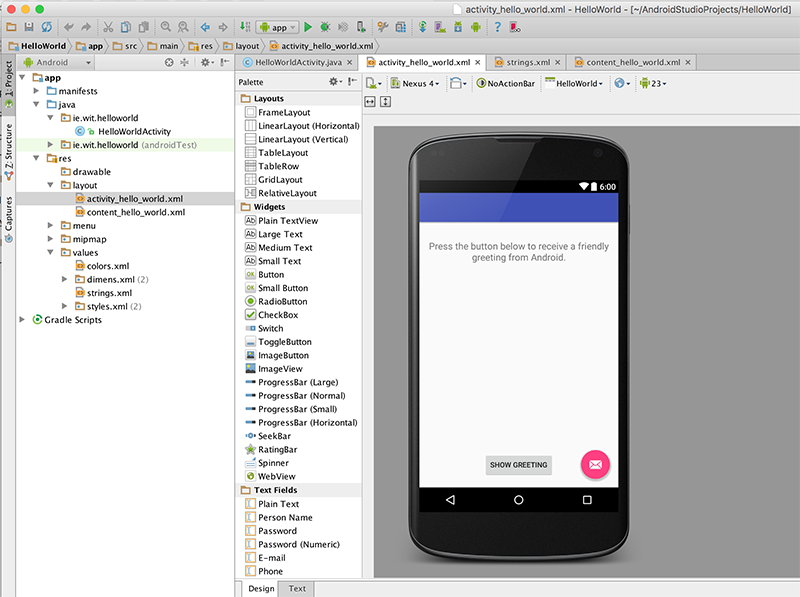
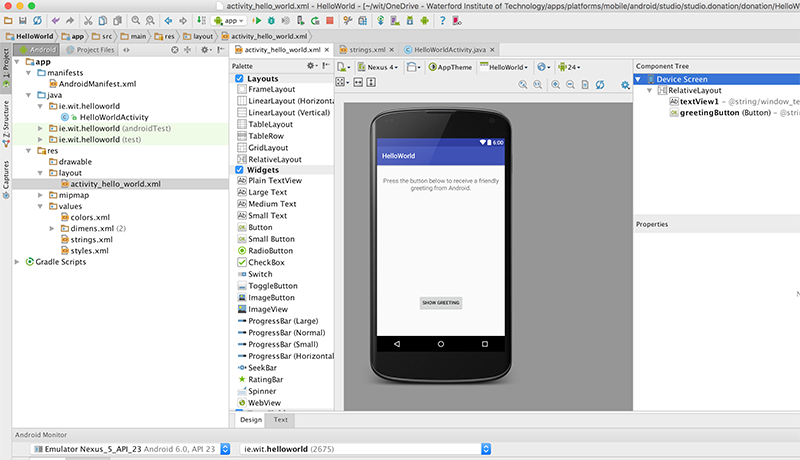
Updates session1/lab/md/step03.md
Auto commit by GitBook Editor

diff --git a/session1/lab/md/step03.md b/session1/lab/md/step03.md
@@ -8,7 +8,7 @@ If you've deleted your HelloWorld Project, launch Android Studio (if it's not al
 
 If you haven't deleted the project, you can just continue on.
 
-Name your package 'ie.wit' (or accept the default again). Accept all the defaults, and it's recommended you select <b>Android 5.0</b> as the launch target platform (but any target will suffice for this particular lab). It's also probably a good idea to run the App at this stage, so you can set up your Virtual Device (if you haven't done so already).
+Name your package 'ie.wit' (like you did before). Choose an Empty Activity again and rename as before. It's recommended you select <b>Android 5.0</b> as the launch target platform (but any target will suffice for this particular lab). It's also probably a good idea to run the App at this stage, so you can set up your Virtual Device (if you haven't done so already).
 
 Edit your "strings.xml" file (in your res folder) and add the following "resources" - be careful if you have created an app which contains a 'menu' folder, this also includes associated resources, so don't overwrite those resources, just add our ones at the end.
 
@@ -18,11 +18,10 @@ Edit your "strings.xml" file (in your res folder) and add the following "resourc
     <string name="greeting_text">Hello from Android!</string>
 ~~~
 
-Your completed strings.xml should look like this
+Your completed strings.xml (without menus) should look like this
 ~~~xml
 <resources>
     <string name="app_name">HelloWorld</string>
-    <string name="action_settings">Settings</string>
     <string name="window_text">Press the button below to receive a friendly greeting from Android.</string>
     <string name="button_label">Show Greeting</string>
     <string name="greeting_text">Hello from Android!</string>
@@ -34,7 +33,7 @@ If you choose "open editor you can see the graphical representation of the Strin
 ![](../img/lab02.png)
 
 
-Now, edit your <b>"content_hello_world.xml"</b> <u><i>in your <i>layout</i> folder</i></u> and replace your <b>TextView</b> with the following
+Now, edit your <b>"activity_hello_world.xml"</b> <u><i>in your <i>layout</i> folder</i></u> and replace your <b>TextView</b> with the following - make sure your in 'Text' view and not 'Design' view.
 
 ~~~xml
 <TextView
@@ -63,7 +62,7 @@ This will give you the following layout:
 
 Once again, it's worth running the app at this point to confirm everything is displayed the way we want it. If you click the button, your app will probably crash - we don't have our <b>showGreeting()</b> method implemented yet.
 
-The last thing we need to do is add in our event handling code so that a short message is displayed when the user presses the 'Show Greeting' button.
+So, the last thing we need to do is add in our event handling code so that a short message is displayed when the user presses the 'Show Greeting' button.
 
 Firstly, open up the "HelloWorldActivity.java" source file and add the following method
 
@@ -71,10 +70,11 @@ Firstly, open up the "HelloWorldActivity.java" source file and add the following
 public void showGreeting(View v) {
         // TODO Auto-generated method stub
         String greetingText = getString(R.string.greeting_text);
-        Toast tempMessage = Toast.makeText(this, greetingText, Toast.LENGTH_LONG);
-        tempMessage.show();
+        Toast.makeText(this, greetingText, Toast.LENGTH_LONG).show();
     }
 ~~~
+
+You'll get a few compiler errors dure to missing imports, so try and fix those.
 
 Note that we have no need for some kind of Listener interface (ala swing development) - our event handling is taken care of via the 'onClick' attribute in our xml layout, here's what your completed Activity class should look like.
 
@@ -82,13 +82,8 @@ Note that we have no need for some kind of Listener interface (ala swing develop
 package ie.wit.helloworld;
 
 import android.os.Bundle;
-import android.support.design.widget.FloatingActionButton;
-import android.support.design.widget.Snackbar;
 import android.support.v7.app.AppCompatActivity;
-import android.support.v7.widget.Toolbar;
 import android.view.View;
-import android.view.Menu;
-import android.view.MenuItem;
 import android.widget.Toast;
 
 public class HelloWorldActivity extends AppCompatActivity {
@@ -97,43 +92,9 @@ public class HelloWorldActivity extends AppCompatActivity {
     protected void onCreate(Bundle savedInstanceState) {
         super.onCreate(savedInstanceState);
         setContentView(R.layout.activity_hello_world);
-        Toolbar toolbar = (Toolbar) findViewById(R.id.toolbar);
-        setSupportActionBar(toolbar);
-
-        FloatingActionButton fab = (FloatingActionButton) findViewById(R.id.fab);
-        fab.setOnClickListener(new View.OnClickListener() {
-            @Override
-            public void onClick(View view) {
-                Snackbar.make(view, "Replace with your own action", Snackbar.LENGTH_LONG)
-                        .setAction("Action", null).show();
-            }
-        });
-    }
-
-    @Override
-    public boolean onCreateOptionsMenu(Menu menu) {
-        // Inflate the menu; this adds items to the action bar if it is present.
-        getMenuInflater().inflate(R.menu.menu_hello_world, menu);
-        return true;
-    }
-
-    @Override
-    public boolean onOptionsItemSelected(MenuItem item) {
-        // Handle action bar item clicks here. The action bar will
-        // automatically handle clicks on the Home/Up button, so long
-        // as you specify a parent activity in AndroidManifest.xml.
-        int id = item.getItemId();
-
-        //noinspection SimplifiableIfStatement
-        if (id == R.id.action_settings) {
-            return true;
-        }
-
-        return super.onOptionsItemSelected(item);
     }
 
     public void showGreeting(View v) {
-
         String greetingText = getString(R.string.greeting_text);
         Toast.makeText(this, greetingText, Toast.LENGTH_LONG).show();
     }
